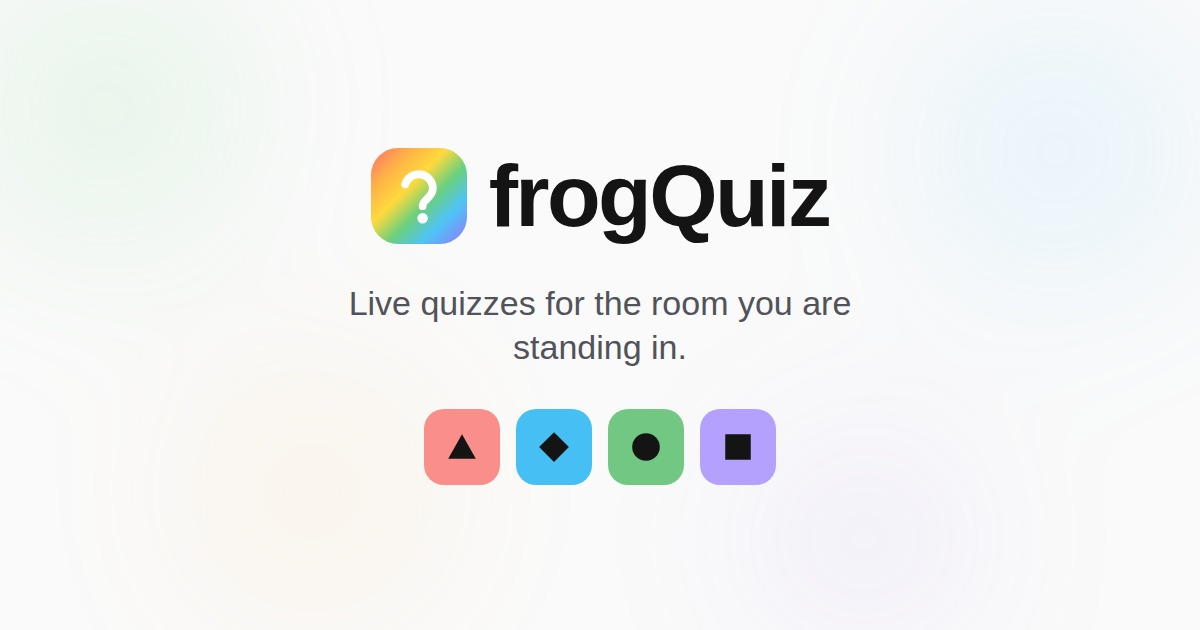
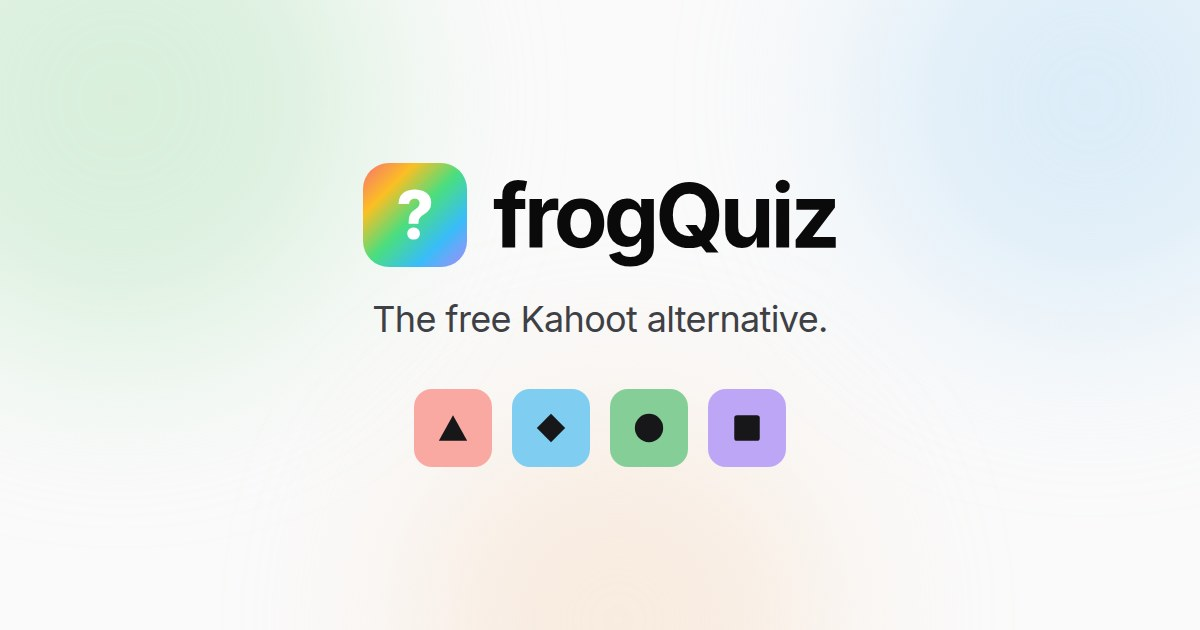
Replace the taglines, and delete a testimonial that was never given
"Live quizzes for the room you are standing in" was mine and it reads
like it. The landing page shipped it alongside a second, different
description -- "an internal quiz tool for running interactive quizzes" --
so the app advertised itself two ways at once, one faux-poetic and one
tautological. Both are now the line François wrote: "The free Kahoot
alternative. Host interactive quizzes right from your browser." It lives
in app.html, the web manifest and en.json, which is where og:description
and twitter:description read from, so the three finally agree. The Open
Graph image had the old line baked in as pixels and is regenerated.

testimonials.svelte is deleted. Nothing imported it, but what sat in it
is worse than dead code: a real named person, a real tweet URL, and a
quote whose text had been find-replaced from ClassQuiz to frogQuiz. As
it stood it was an endorsement of a different product edited to read as
an endorsement of this one, one import away from rendering.

The docs pages carried upstream's "the open-source quiz-application" on
all eight, and two of those descriptions belonged to other pages
entirely -- the privacy policy introduced itself as the self-hosting
guide, and the develop page as the Kahoot importer. Each now describes
the page it is actually on.

Claude-Session: https://claude.ai/code/session_01Ky2jFtBp71GCcJojpzHC3V

diff --git a/frontend/src/routes/docs/import-from-kahoot/+page.svelte b/frontend/src/routes/docs/import-from-kahoot/+page.svelte
@@ -6,10 +6,7 @@ SPDX-License-Identifier: MPL-2.0
 
 <svelte:head>
 	<title>frogQuiz/docs - Import from Kahoot</title>
-	<meta
-		name="description"
-		content="How to import quizzes from KAHOOT! into frogQuiz, the open-source quiz-application,  easily"
-	/>
+	<meta name="description" content="How to import an existing Kahoot! quiz into frogQuiz." />
 </svelte:head>
 <article
 	class="prose prose-sm sm:prose lg:prose-lg xl:prose-xl mx-auto mt-10 prose-slate px-4 dark:prose-invert"

diff --git a/frontend/src/routes/docs/roadmap/+page.svelte b/frontend/src/routes/docs/roadmap/+page.svelte
@@ -6,7 +6,10 @@ SPDX-License-Identifier: MPL-2.0
 
 <svelte:head>
 	<title>frogQuiz/docs - Roadmap</title>
-	<meta name="description" content="The roadmap for frogQuiz, the open-source quiz-application" />
+	<meta
+		name="description"
+		content="What is planned for frogQuiz, and what is deliberately out of scope."
+	/>
 </svelte:head>
 <article
 	class="prose prose-sm sm:prose lg:prose-lg xl:prose-xl mx-auto mt-10 prose-slate px-4 dark:prose-invert"

diff --git a/frontend/src/routes/docs/pow/+page.svelte b/frontend/src/routes/docs/pow/+page.svelte
@@ -6,10 +6,7 @@ SPDX-License-Identifier: MPL-2.0
 
 <svelte:head>
 	<title>frogQuiz/docs - PoW</title>
-	<meta
-		name="description"
-		content="Use-case of PoW for frogQuiz, the open-source quiz-application"
-	/>
+	<meta name="description" content="Why frogQuiz uses a proof-of-work check, and what it does." />
 </svelte:head>
 <article
 	class="prose prose-sm sm:prose lg:prose-lg xl:prose-xl mx-auto mt-10 prose-slate px-4 dark:prose-invert"

diff --git a/frontend/src/app.html b/frontend/src/app.html
@@ -13,7 +13,7 @@ SPDX-License-Identifier: MPL-2.0
 		     and search and link previews had nothing to quote. -->
 		<meta
 			name="description"
-			content="Live quizzes for the room you are standing in. Host on a screen, everyone joins on their phone."
+			content="The free Kahoot alternative. Host interactive quizzes right from your browser."
 		/>
 		<meta name="viewport" content="width=device-width, initial-scale=1" />
 		<script>

diff --git a/frontend/src/routes/docs/+page.svelte b/frontend/src/routes/docs/+page.svelte
@@ -7,7 +7,7 @@ SPDX-License-Identifier: MPL-2.0
 	<title>frogQuiz/docs - Index</title>
 	<meta
 		name="description"
-		content="The overview about the docs for frogQuiz, the open-source quiz-application"
+		content="An overview of the frogQuiz documentation: hosting a game, importing quizzes, and running your own instance."
 	/>
 </svelte:head>
 <article

diff --git a/frontend/src/routes/docs/develop/+page.svelte b/frontend/src/routes/docs/develop/+page.svelte
@@ -18,7 +18,7 @@ SPDX-License-Identifier: MPL-2.0
 	<title>frogQuiz/docs - Development-setup</title>
 	<meta
 		name="description"
-		content="How to import quizzes from KAHOOT! into frogQuiz, the open-source quiz-application,  easily"
+		content="How to set up a frogQuiz development environment and work on the code."
 	/>
 </svelte:head>
 <article

diff --git a/frontend/src/routes/docs/tos/+page.svelte b/frontend/src/routes/docs/tos/+page.svelte
@@ -16,10 +16,7 @@ SPDX-License-Identifier: MPL-2.0
 
 <svelte:head>
 	<title>frogQuiz/docs - Terms of Service</title>
-	<meta
-		name="description"
-		content="The terms of service of frogQuiz, the open-source quiz-application"
-	/>
+	<meta name="description" content="The terms of service for frogQuiz." />
 </svelte:head>
 
 <article

diff --git a/frontend/src/routes/docs/self-host/+page.svelte b/frontend/src/routes/docs/self-host/+page.svelte
@@ -17,7 +17,7 @@ SPDX-License-Identifier: MPL-2.0
 	<title>frogQuiz/docs - Self-Host</title>
 	<meta
 		name="description"
-		content="How to self-host frogQuiz, the open-source quiz-application"
+		content="How to run your own frogQuiz instance: the services it needs, and how to configure them."
 	/>
 </svelte:head>
 <article

diff --git a/frontend/src/routes/docs/privacy-policy/+page.svelte b/frontend/src/routes/docs/privacy-policy/+page.svelte
@@ -18,7 +18,7 @@ SPDX-License-Identifier: MPL-2.0
 	<title>frogQuiz/docs - Privacy policy</title>
 	<meta
 		name="description"
-		content="How to self-host frogQuiz, the open-source quiz-application"
+		content="What data frogQuiz stores, why, and how to have it deleted."
 	/>
 </svelte:head>
 
